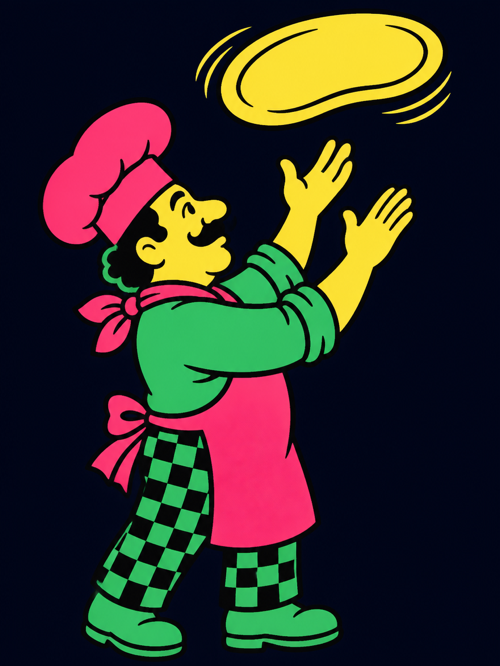
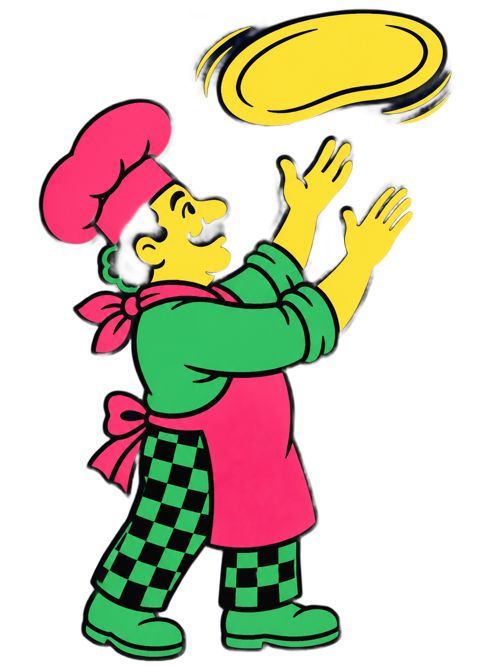
Murals go transparent and gain a second frame each
Background-removed so the panel checker shows through, plus frame B
per mural (dough at the fingertips; flames in an alternate lick) for
a stepped two-frame flip in the art windows.

diff --git a/design/design_handoff_za_cabinet/ART.md b/design/design_handoff_za_cabinet/ART.md
@@ -30,3 +30,14 @@ special sitting above it.
 - Transparent background is fine; the panel checker sits behind it.
 - Deliver as PNG at 2x, `public/assets/cabinet-left.png` and
   `public/assets/cabinet-right.png`.
+
+---
+
+## As shipped — transparent, and animated in two frames
+
+Both murals shipped background-removed (RGBA over the panel checker, as this
+file allows) and each carries a second frame for an arcade-style two-frame
+loop: `cabinet-left-b.png` (the dough drops to the fingertips) and
+`cabinet-right-b.png` (the flames in an alternate lick). The flip is two
+stacked images and a stepped opacity swap — `steps(1, end)`, opacity only,
+frame A alone under `prefers-reduced-motion`.
